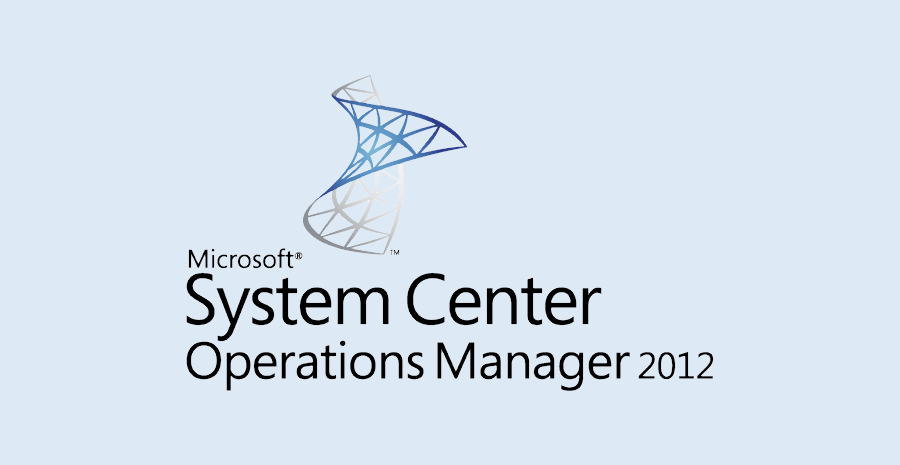
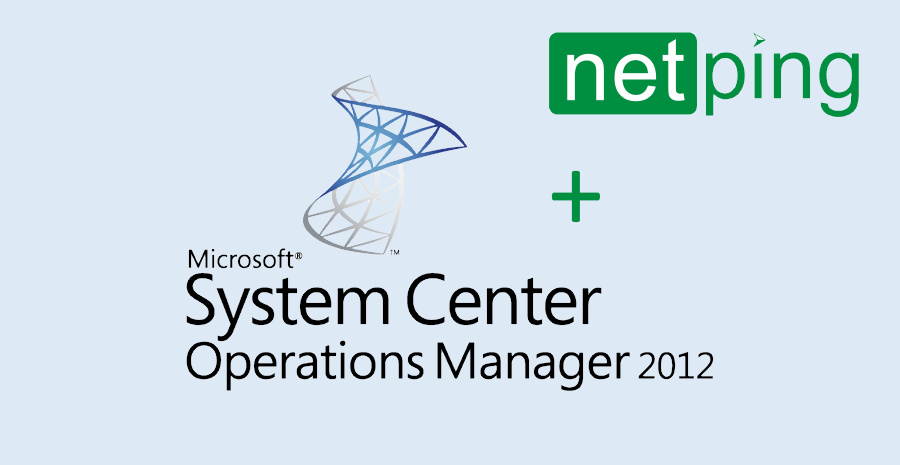
Webdevelopment 2018.04.07

Changed region(s): [[0.5911, 0.0602, 0.9644, 0.271], [0.5911, 0.3613, 0.6844, 0.4817]]

diff --git a/catalog/view/theme/pav_digitalstore/stylesheet/skins/green.css b/catalog/view/theme/pav_digitalstore/stylesheet/skins/green.css
@@ -644,13 +644,20 @@ h1 small {
 h2 {
   font-size: 22px;
   line-height: 34px;
+  margin: 25px 0 4px 0;
+}
+h2-blog-list {
+  font-size: 22px;
+  line-height: 34px;
+  margin: 0px 0 0 0;
 }
 h2 small {
   font-size: 14px;
 }
 h3 {
   font-size: 20px;
-  line-height: 34px;
+  line-height: 26px;
+  margin: 26px 0 0 0;
 }
 h3 small {
   font-size: 16px;

diff --git a/catalog/language/en-gb/extension/module/pavblog.php b/catalog/language/en-gb/extension/module/pavblog.php
@@ -34,7 +34,7 @@ $_['text_leave_a_comment'] = 'Leave A Comment';
   *
   */
   $_['filter_blog_header_title'] = 'Filter Blogs By %s';
-  $_['blogs_latest_header_title'] = 'Latest Blogs';
+  $_['blogs_latest_header_title'] = 'NetPing Solution - IT Blog';
 
   /*blogcategory module*/
   // Heading 
